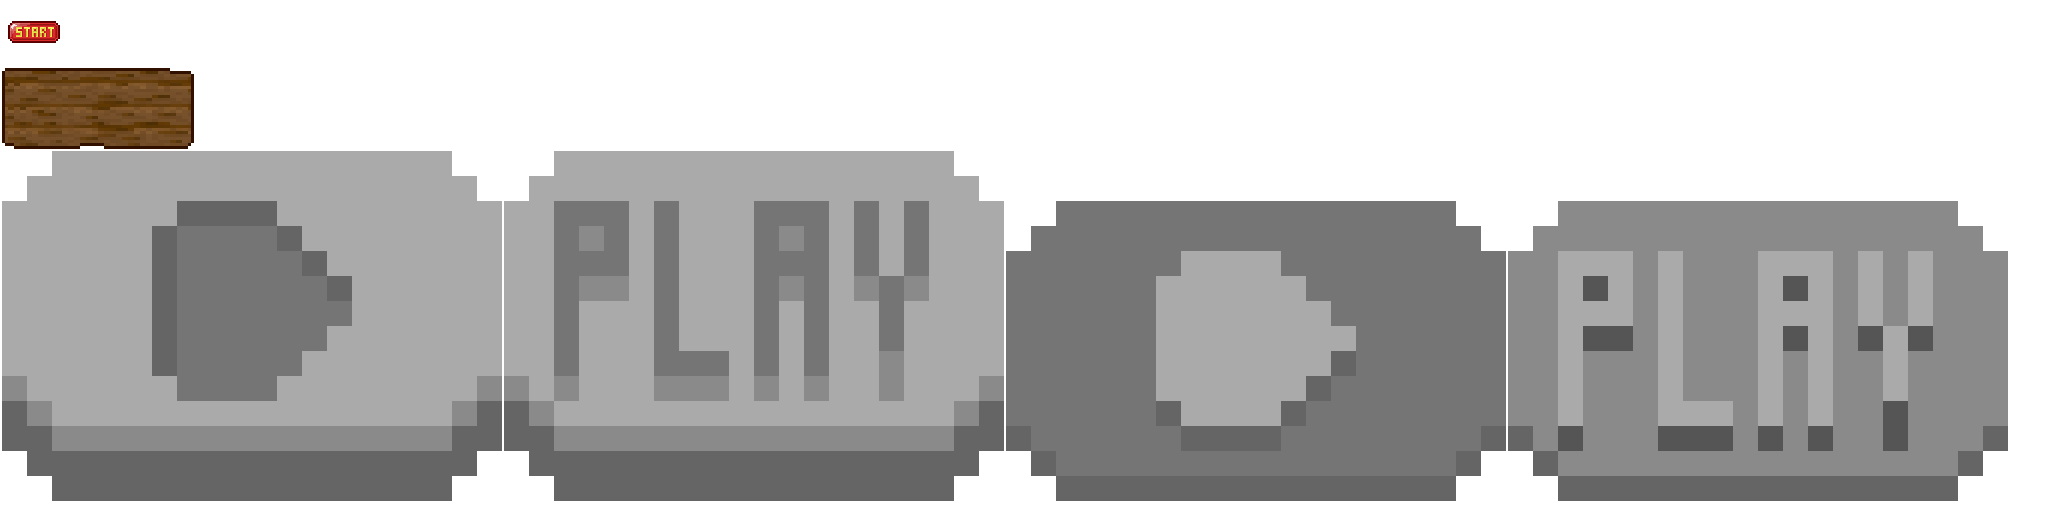
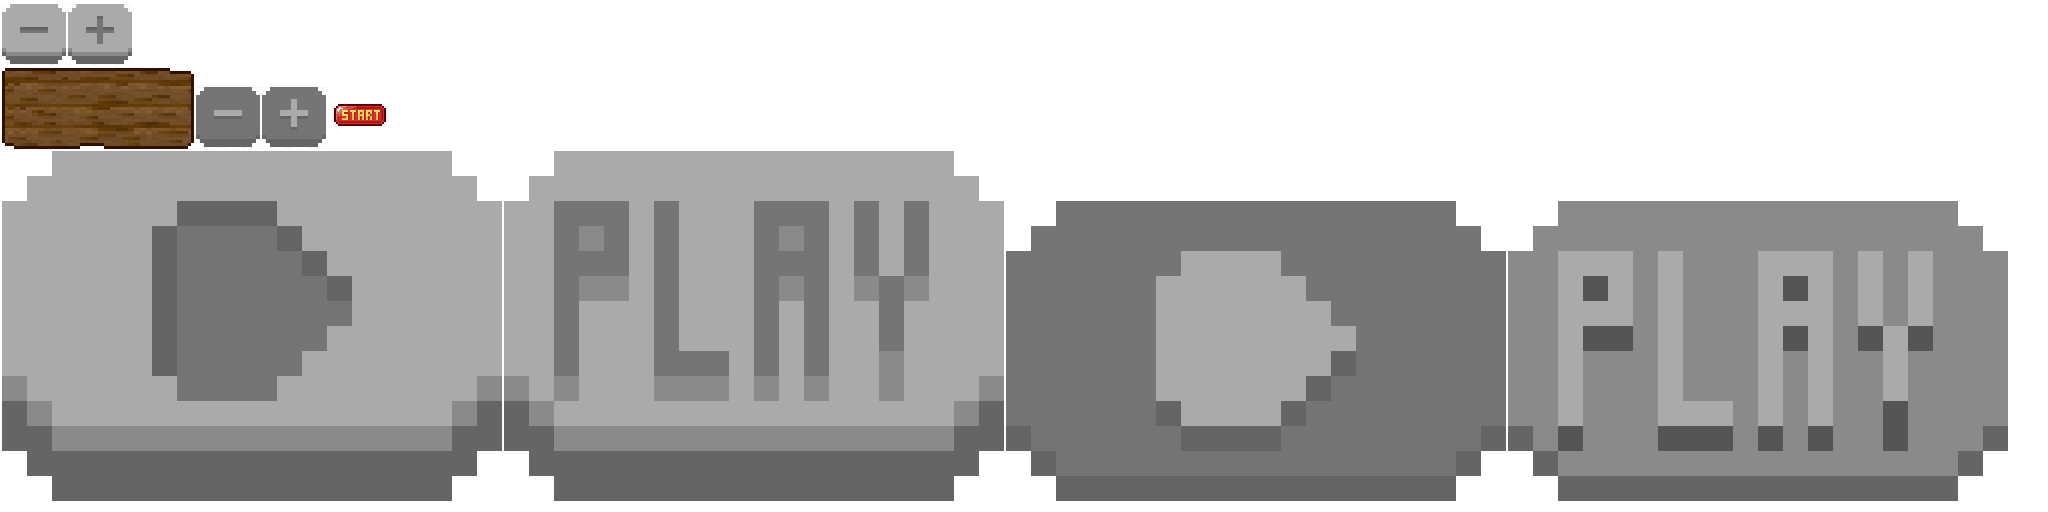
Added plus and minus button to CharacterSelection

Changed region(s): [[0.0938, 0.1562, 0.1875, 0.3125], [0.0, 0.0, 0.0625, 0.125]]

diff --git a/core/src/pl/bbl/osbir/screens/character/director/ui/CharacterSelectionLayout.java b/core/src/pl/bbl/osbir/screens/character/director/ui/CharacterSelectionLayout.java
@@ -96,11 +96,16 @@ public class CharacterSelectionLayout {
     private Stack createOptionMenu(float width, float height){
         Stack optionMenuStack = new Stack();
         Table optionMenuTable = new Table();
+        Table buttonTable = new Table();
         optionMenuTable.add(new TiledTextureActor(
                 new TextureAtlas.AtlasRegion(characterSelectionAtlas.findRegion("plank"))))
                 .width(width - 10).height(height - 12); //Fitting image inside border.
         optionMenuStack.add(optionMenuTable);
         optionMenuStack.add(createSmallerBorderImage(width, height));
+        buttonTable.add(new Button(skin, "start")).width(128).height(96);
+        buttonTable.add(new Button(skin, "plus")).width(64).height(64).pad(32);
+        buttonTable.add(new Button(skin, "minus")).width(64).height(64);
+        optionMenuStack.add(buttonTable);
         return optionMenuStack;
     }
 

diff --git a/core/src/pl/bbl/osbir/properties/OsbirProperties.java b/core/src/pl/bbl/osbir/properties/OsbirProperties.java
@@ -5,8 +5,8 @@ import java.io.Serializable;
 public class OsbirProperties implements Serializable{
     private static String authenticationServerHost = "localhost";
     private static int authenticationServerPort = 9987;
-    private static float viewportWidth = 1024;
-    private static float viewportHeight = 720;
+    private static float viewportWidth = 1920;
+    private static float viewportHeight = 1080;
 
     public static String getAuthenticationServerHost() {
         return authenticationServerHost;
